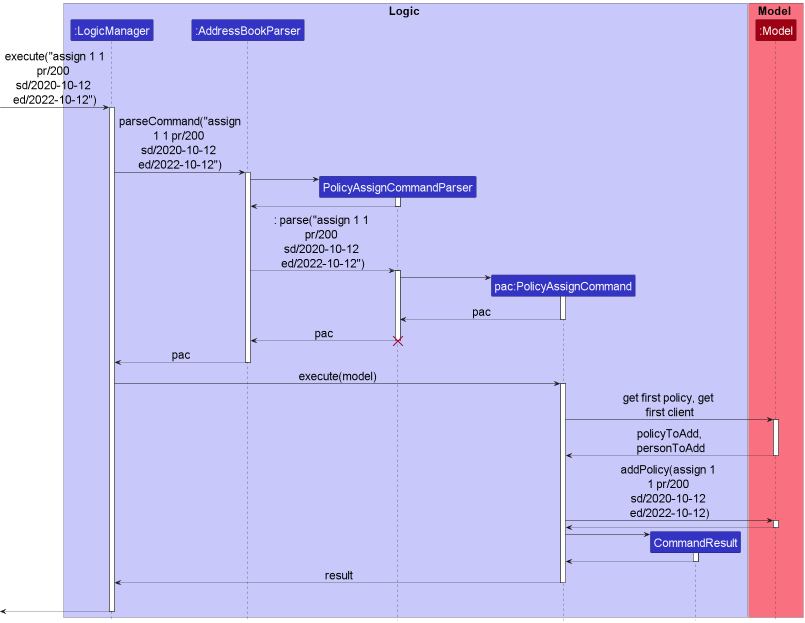
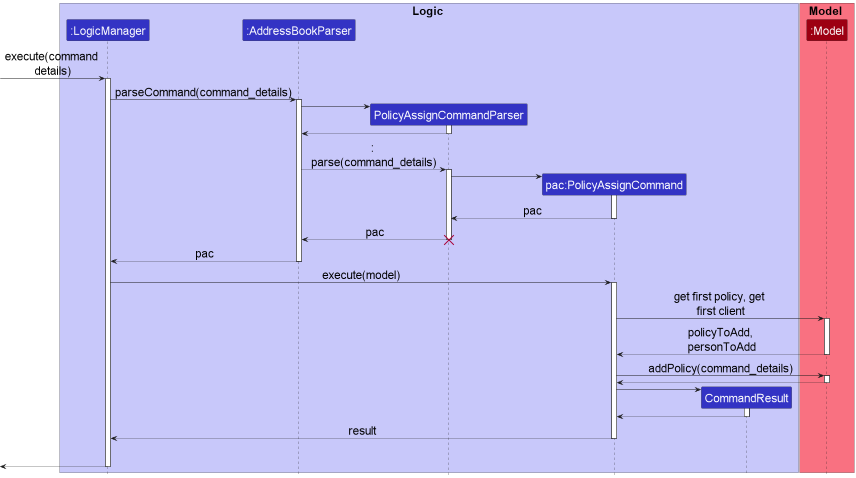
Update to DG.

Changed region(s): [[0.0, 0.0, 0.9938, 0.9958], [0.1863, 0.5272, 0.2484, 0.5858]]

diff --git a/docs/DeveloperGuide.md b/docs/DeveloperGuide.md
@@ -263,7 +263,7 @@ the person object. It also returns a boolean describing if the assigned policy a
 Given below is an example usage scenario and how an `assign` command is executed.
 
 The interactions between the components during the usage scenario is shown in the *Sequence Diagram* below.
-The use of `"command details"` serves to substitute the command `assign 1 1 \npr/200 sd/2020-10-12 \ned/2022-10-12` for readability. 
+The use of `command_details` serves to substitute the command `assign 1 1 \npr/200 sd/2020-10-12 \ned/2022-10-12` for readability. 
 
 <p align="center" >
   <img src="images/AssignPolicySequenceDiagram.png" width="700"/>
